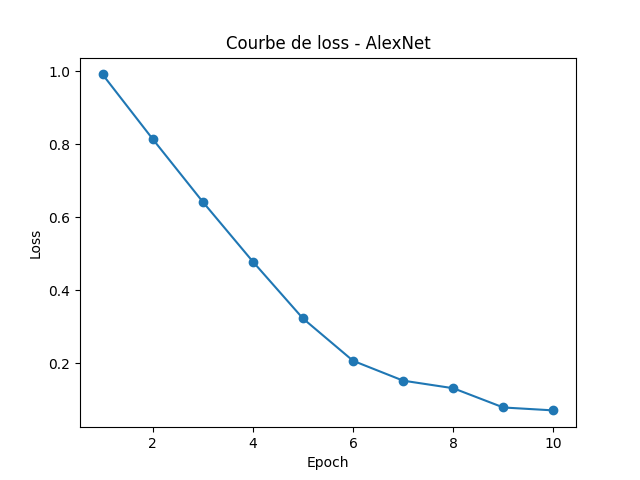
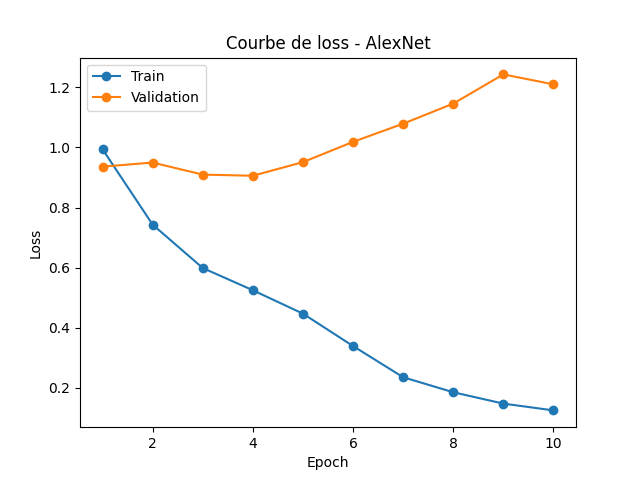
Amélioration train.py : val loss, freeze couches, correction warning

diff --git a/train.py b/train.py
@@ -2,7 +2,7 @@
 
 import torch
 import torch.nn as nn
-from torch.utils.data import DataLoader
+from torch.utils.data import DataLoader, random_split
 from torchvision import models
 from sklearn.metrics import f1_score, confusion_matrix
 import matplotlib.pyplot as plt
@@ -18,61 +18,90 @@ print("Chargement des données...")
 image_paths, labels = load_data(config.ROOT, config.TRAIN_DIR)
 train_paths, train_labels, test_paths, test_labels = split_data(image_paths, labels)
 
-# Création des datasets
-train_dataset = RGBDataset(train_paths, train_labels, transform=transform)
-test_dataset  = RGBDataset(test_paths,  test_labels,  transform=transform)
+# Split train en train + validation (80% train, 20% val)
+train_dataset_full = RGBDataset(train_paths, train_labels, transform=transform)
+val_size  = int(0.2 * len(train_dataset_full))
+train_size = len(train_dataset_full) - val_size
+train_dataset, val_dataset = random_split(train_dataset_full, [train_size, val_size])
+
+test_dataset = RGBDataset(test_paths, test_labels, transform=transform)
 
 # Création des dataloaders
 train_loader = DataLoader(train_dataset, batch_size=config.BATCH_SIZE, shuffle=True,  num_workers=config.NUM_WORKERS)
+val_loader   = DataLoader(val_dataset,   batch_size=config.BATCH_SIZE, shuffle=False, num_workers=config.NUM_WORKERS)
 test_loader  = DataLoader(test_dataset,  batch_size=config.BATCH_SIZE, shuffle=False, num_workers=config.NUM_WORKERS)
 
-print(f"Train : {len(train_dataset)} images | Test : {len(test_dataset)} images")
+print(f"Train : {train_size} | Val : {val_size} | Test : {len(test_dataset)}")
 
 # ---- Modèle AlexNet ----
 print("Chargement d'AlexNet...")
 device = torch.device("cuda" if torch.cuda.is_available() else "cpu")
 print("Device :", device)
 
-# Charge AlexNet pré-entraîné sur ImageNet
-model = models.alexnet(pretrained=True)
+# Charge AlexNet pré-entraîné (syntaxe correcte sans warning)
+model = models.alexnet(weights=models.AlexNet_Weights.IMAGENET1K_V1)
+
+# Gèle les couches convolutives (transfer learning)
+for param in model.features.parameters():
+    param.requires_grad = False
 
 # Remplace la dernière couche pour avoir 3 classes au lieu de 1000
 model.classifier[6] = nn.Linear(4096, len(config.LABELS))
 model = model.to(device)
 
 # ---- Entraînement ----
-criterion = nn.CrossEntropyLoss()  # fonction de perte
-optimizer = torch.optim.Adam(model.parameters(), lr=config.LR)  # optimiseur
+criterion = nn.CrossEntropyLoss()
+# On optimise seulement les paramètres non gelés
+optimizer = torch.optim.Adam(
+    filter(lambda p: p.requires_grad, model.parameters()), lr=config.LR
+)
 
-train_losses = []  # pour tracer la courbe de loss
+train_losses = []  # courbe de loss train
+val_losses   = []  # courbe de loss validation
 
 print("Début de l'entraînement...")
 for epoch in range(1, config.EPOCHS + 1):
-    model.train()
-    total_loss = 0
-    n = 0
 
+    # -- Phase entraînement --
+    model.train()
+    total_loss, n = 0.0, 0
     for images, labels_batch in train_loader:
         images = images.to(device)
         labels_batch = labels_batch.to(device)
 
-        optimizer.zero_grad()           # remet les gradients à zéro
-        outputs = model(images)         # passe les images dans le modèle
-        loss = criterion(outputs, labels_batch)  # calcule la perte
-        loss.backward()                 # rétropropagation
-        optimizer.step()               # mise à jour des poids
+        optimizer.zero_grad()
+        outputs = model(images)
+        loss = criterion(outputs, labels_batch)
+        loss.backward()
+        optimizer.step()
 
         total_loss += loss.item() * images.size(0)
         n += images.size(0)
 
-    avg_loss = total_loss / n
-    train_losses.append(avg_loss)
-    print(f"Epoch {epoch:02d}/{config.EPOCHS} | Loss : {avg_loss:.4f}")
+    avg_train_loss = total_loss / n
+    train_losses.append(avg_train_loss)
 
-# ---- Evaluation ----
+    # -- Phase validation --
+    model.eval()
+    total_val_loss, n_val = 0.0, 0
+    with torch.no_grad():
+        for images, labels_batch in val_loader:
+            images = images.to(device)
+            labels_batch = labels_batch.to(device)
+            outputs = model(images)
+            loss = criterion(outputs, labels_batch)
+            total_val_loss += loss.item() * images.size(0)
+            n_val += images.size(0)
+
+    avg_val_loss = total_val_loss / n_val
+    val_losses.append(avg_val_loss)
+
+    print(f"Epoch {epoch:02d}/{config.EPOCHS} | Train Loss : {avg_train_loss:.4f} | Val Loss : {avg_val_loss:.4f}")
+
+# ---- Evaluation sur le jeu de test ----
 print("Evaluation sur le jeu de test...")
 model.eval()
-all_preds = []
+all_preds  = []
 all_labels = []
 
 with torch.no_grad():
@@ -83,20 +112,21 @@ with torch.no_grad():
         all_preds.extend(preds)
         all_labels.extend(labels_batch.numpy())
 
-# Métriques
 f1 = f1_score(all_labels, all_preds, average="macro")
 cm = confusion_matrix(all_labels, all_preds)
 print(f"F1-score macro : {f1:.4f}")
 print("Matrice de confusion :")
 print(cm)
 
-# ---- Courbe de loss ----
+# ---- Courbe de loss train + validation ----
 plt.figure()
-plt.plot(range(1, config.EPOCHS + 1), train_losses, marker="o")
+plt.plot(range(1, config.EPOCHS + 1), train_losses, marker="o", label="Train")
+plt.plot(range(1, config.EPOCHS + 1), val_losses,   marker="o", label="Validation")
 plt.title("Courbe de loss - AlexNet")
 plt.xlabel("Epoch")
 plt.ylabel("Loss")
-plt.savefig("loss_alexnet.png")  # sauvegarde la courbe
+plt.legend()
+plt.savefig("loss_alexnet.png")
 print("Courbe de loss sauvegardée dans loss_alexnet.png")
 
 # ---- Sauvegarde du modèle ----